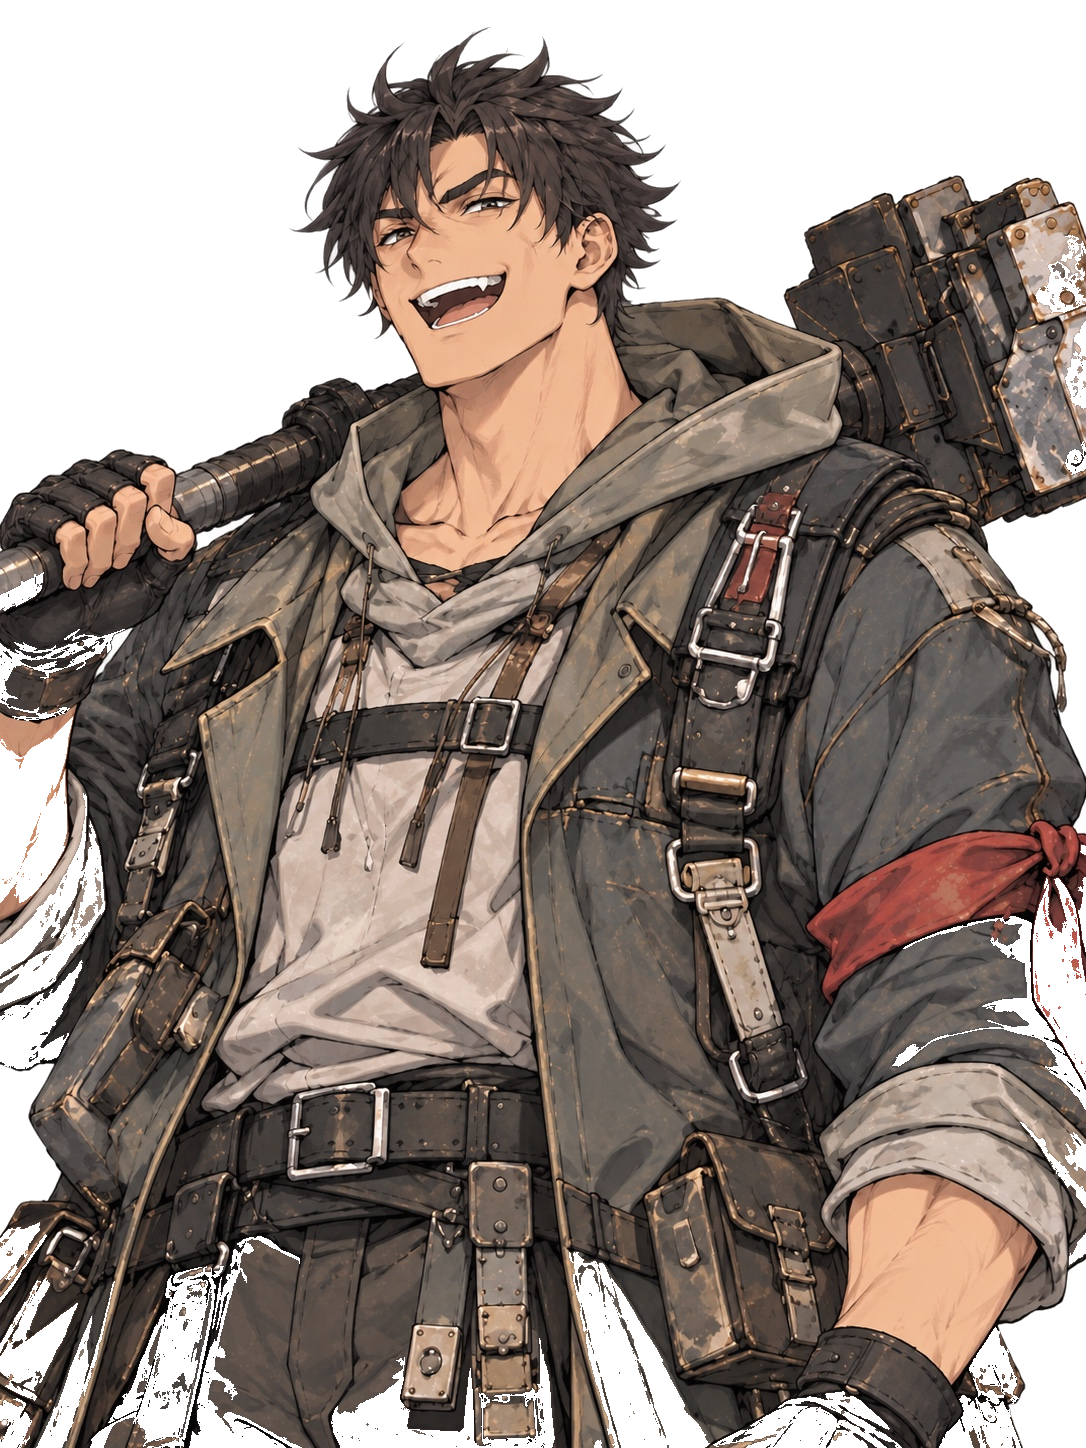
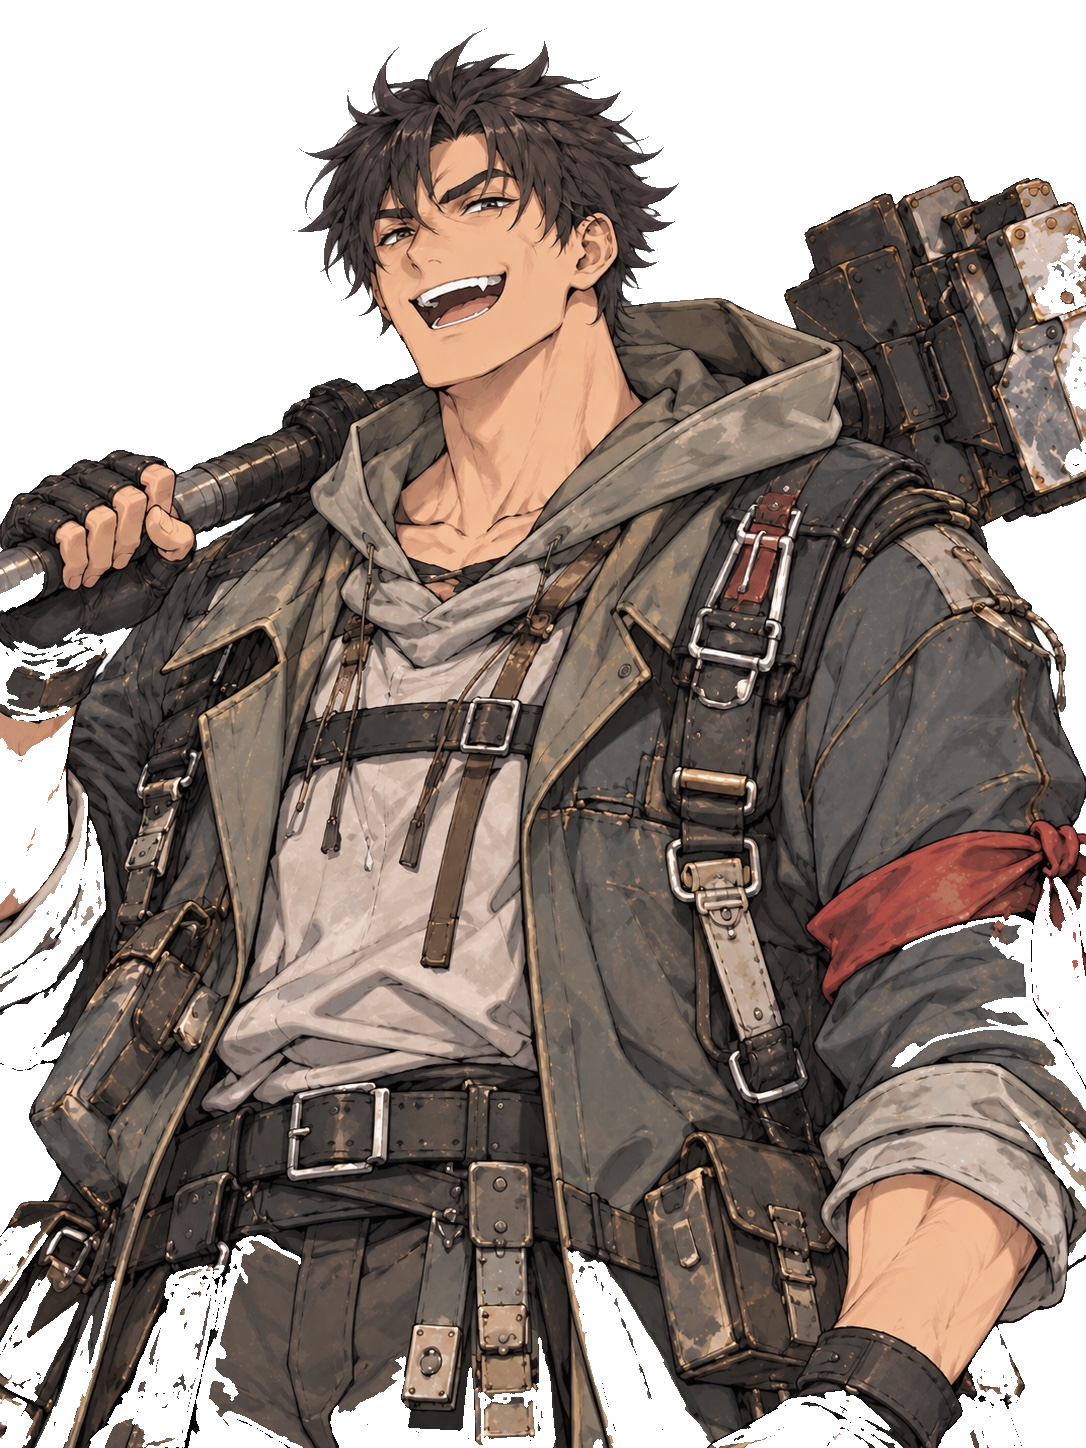
キャラクター立ち絵の透過処理を修正

diff --git a/docs/art/bustup_v0/README.md b/docs/art/bustup_v0/README.md
@@ -18,15 +18,15 @@
 
 ## 透過版
 
-上の画像は、今回添付されたJPEGの外周に接続する白背景を除去した、会話UI向けの暫定透過PNGです。人物内部の白い服・髪などは保持しています。元のJPEGは比較用に残しています。
+上の画像は、今回添付されたJPEGの外周に接続する白背景と、人物の輪郭内に残っていた明らかな白背景の島を除去した、会話UI向けの暫定透過PNGです。人物内部の白い服・髪・ぬいぐるみなどは保持しています。元のJPEGは比較用に残しています。
 
 | 人物 | ファイル | サイズ | SHA-256 |
 |---|---|---:|---|
[10 lines of base64/hex data omitted]
 
 ## 元生成画像
 
